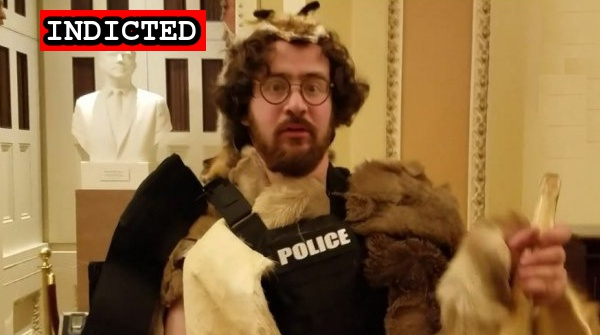
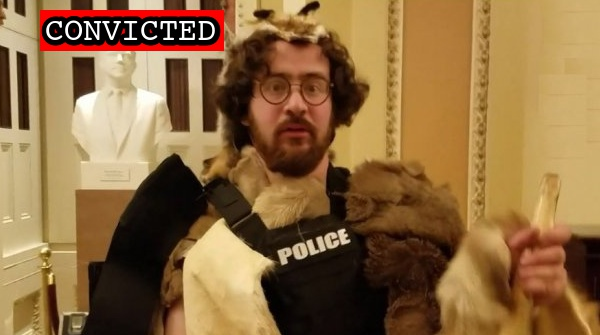
Guilty plea

Changed region(s): [[0.06, 0.0299, 0.39, 0.1791]]

diff --git a/docs/_suspects/aaron-mostofsky.md b/docs/_suspects/aaron-mostofsky.md
@@ -4,16 +4,16 @@ lastName: Mostofsky
 hashtag: FurryFoxGuy
 aka:
 residence: New York
-status: Indicted
+status: Convicted
 date: 2021-01-11
 charged: 2021-01-11
 indicted: 2021-02-19
-convicted:
+convicted: 2022-02-02
 sentenced:
 dismissed:
 deceased:
-plea_hearing:
-sentencing:
+plea_hearing: 2022-02-02
+sentencing: 2022-05-06
 age: 34
 occupation:
 affiliations:
@@ -34,6 +34,14 @@ published: true
 caseNumber: 1:21-cr-138
 videos:
 charges:
+  - code: 18 USC § 231(a)(3)
+    title: Civil Disorder
+    url: https://www.law.cornell.edu/uscode/text/18/231
+    felony: true
+  - code: 18 USC § 641
+    title: Theft of Government Property
+    url: https://www.law.cornell.edu/uscode/text/18/641
+    felony: false
 sentence:
 ---
 
